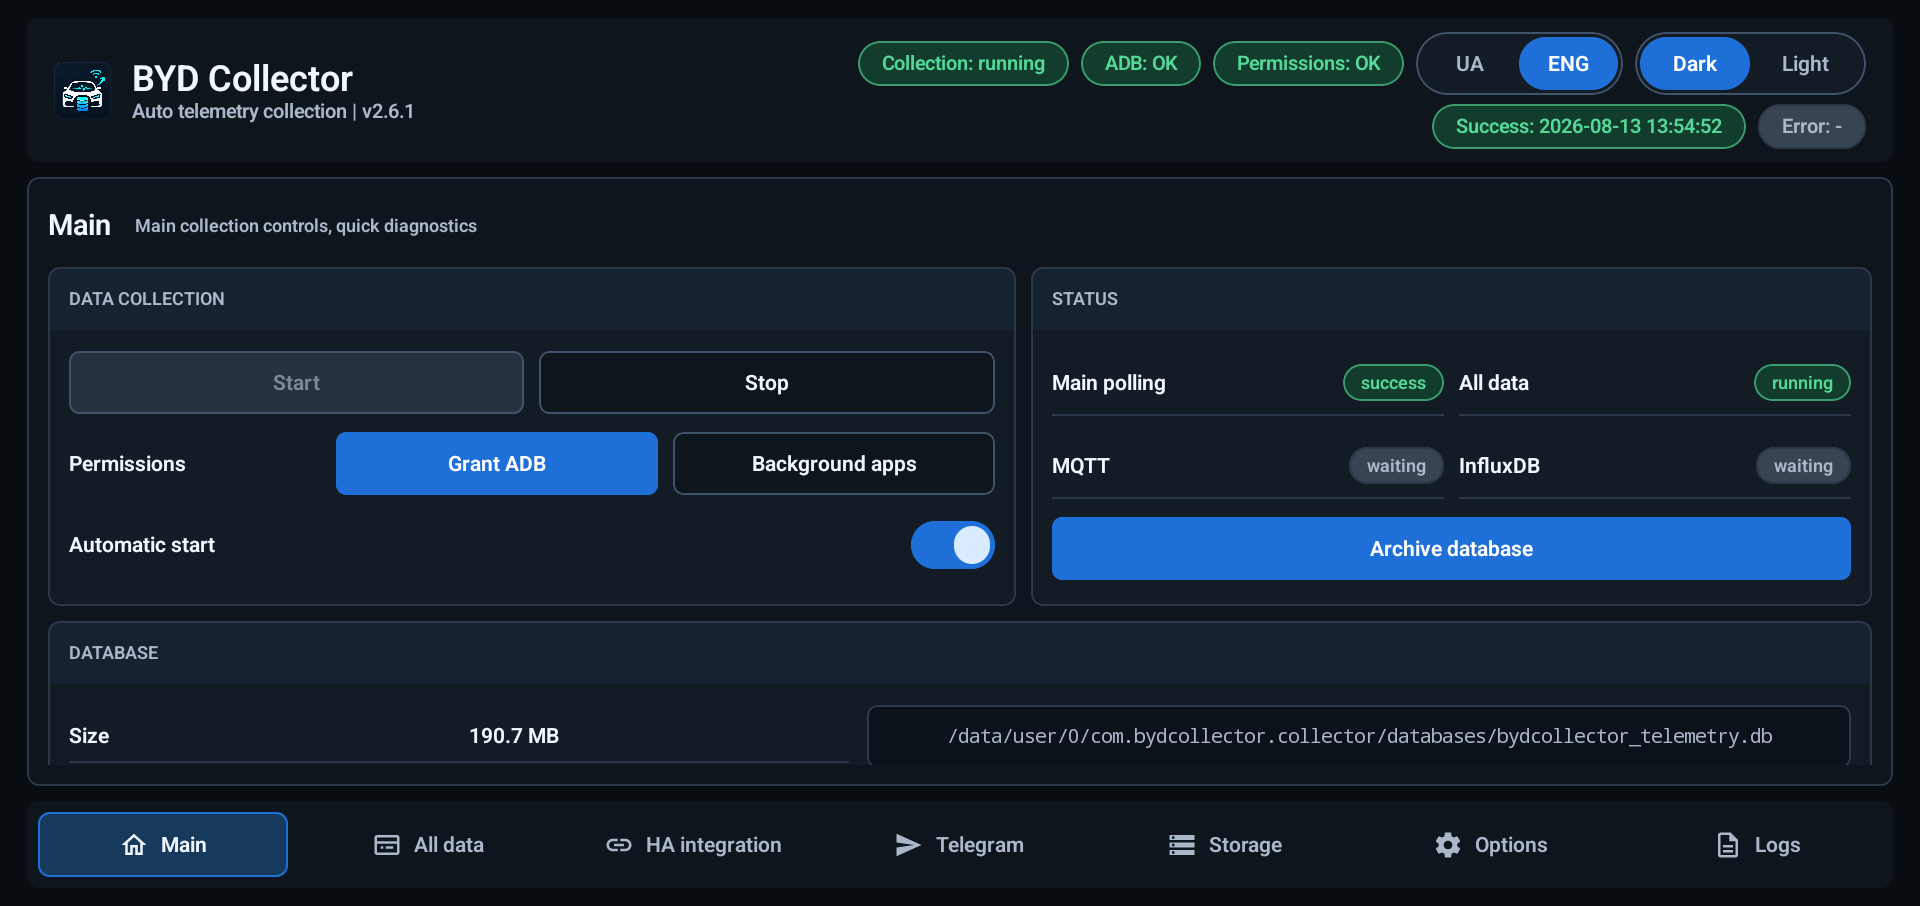
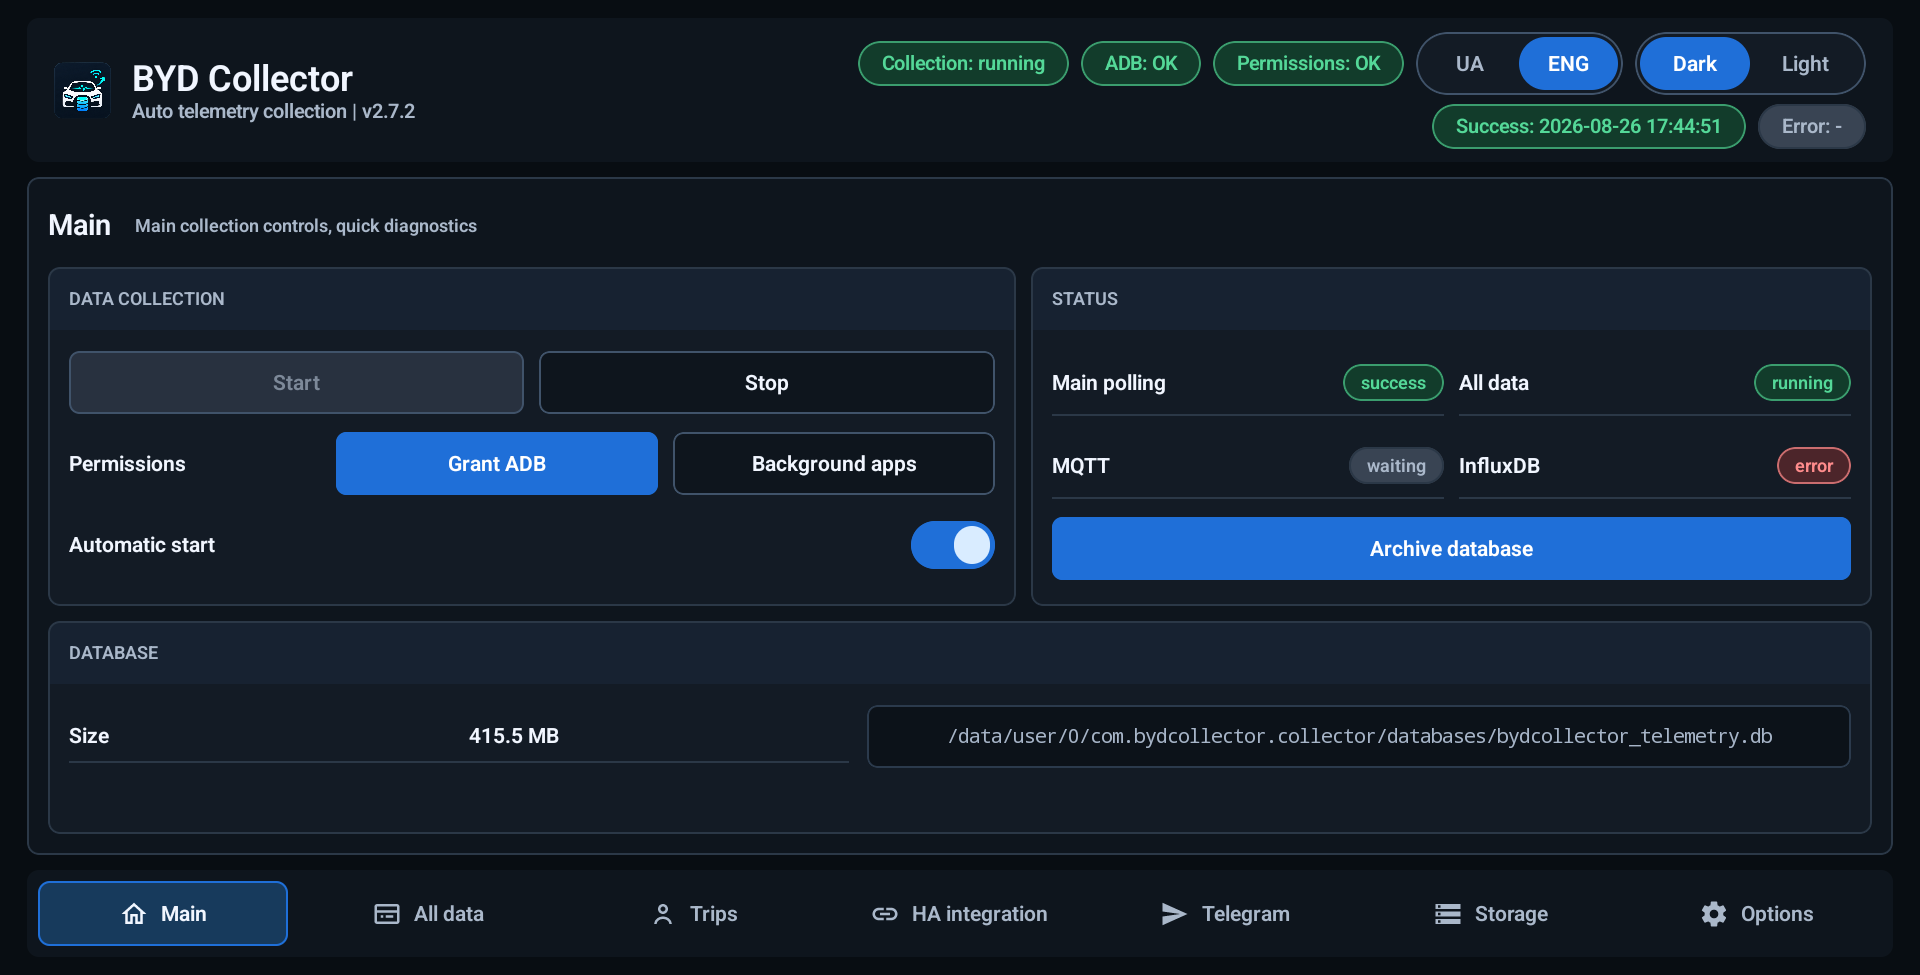
chore(docs): update README and templates

diff --git a/docs/screenshots/README.md b/docs/screenshots/README.md
@@ -1,40 +1,30 @@
-# README screenshot refresh
+# README screenshots
 
-The current screenshots show the retired `v2.6.1` layout. Replace them with
-current production `v2.7.2` captures in both languages before the next public
-release.
+The paired public READMEs use the approved screenshot set for the `v2.7.2`
+documentation. Newly captured assets show `v2.7.2`; the existing Telegram and
+Storage captures are retained because the represented tabs did not change.
+English assets live under `en/`; Ukrainian assets use the same basenames under
+`uk/`.
 
-## Capture rules
+## Published set
 
-- Use the production UI in landscape at `1920 x 906`, matching the existing
-  image dimensions.
-- Capture the same state twice: English under `en/` and Ukrainian under `uk/`.
-- Use the dark theme and keep the complete app surface in frame.
-- The header must show `v2.7.2`; the bottom bar must include Trips and must not
-  include the retired Logs tab.
-- Use emulator or synthetic data. Do not expose a real bot token, chat ID,
-  broker/Influx credentials, private hostnames or addresses, vehicle identity,
-  home location, or a real private route.
-- Prefer stable states: collection running, ADB/permissions OK, and no transient
-  loading overlay unless that state is the subject of the screenshot.
-
-## Required captures
-
-Create every basename below under both `docs/screenshots/en/` and
-`docs/screenshots/uk/`.
-
-| File | Required state |
+| File | README placement |
 | --- | --- |
-| `main.png` | Main tab at the top, with current header pills, collection controls, channel status, and useful vehicle KPI cards visible. |
-| `parameters.png` | All data tab with a non-zero catalog/cycle count and representative parameter rows; no active error. |
-| `trips.png` | Trips list with at least two non-zero synthetic trips so grouping, times, distance, energy, and consumption are visible. |
-| `trip-map.png` | One synthetic trip opened on the map with a continuous outlined route, Start/Finish markers, and the lower legend/colour controls visible. |
-| `home-assistant.png` | HA integration tab showing MQTT and InfluxDB controls/status plus the category grid; credentials blank or masked and location category off. |
-| `telegram.png` | Trip summary card showing the location action with its centered default `no` / `ні` status and the current template controls; secrets must be outside the frame or masked. |
-| `storage.png` | Storage tab with active database cards, archive limit, and share/delete archive actions visible. |
-| `options.png` | Options tab with combined Wi-Fi/cellular recovery, Bluetooth/service recovery, Start/Stop logcat, Share logs, and Clear logs visible. |
+| `main.png` | Main collection controls, channel status, and database state. |
+| `parameters.png` | All data controls, current vehicle state, and round-robin database state. |
+| `trips.png` | Grouped trip history with distance, energy, SOC, consumption, and route actions. |
+| `home-assistant.png` | MQTT and InfluxDB controls, status, and category selection. |
+| `telegram.png` | Telegram connection and event-template controls; retained because the represented tab did not change. |
+| `storage.png` | Active databases, archive limit, and archive selection; retained because the represented tab did not change. |
+| `archive.png` | Database-archive confirmation and queue warnings. |
+| `archive-done.png` | Successful database-archive result. |
+| `options.png` | Recovery, logcat, Share logs, Clear logs, update, and shutdown controls. |
 
-The six existing filenames are already referenced by the paired READMEs and can
-be replaced in place. `trips.png` and `trip-map.png` have prepared hidden slots
-in both READMEs; enable their image blocks only after both language pairs exist,
-so the public README never contains a broken image.
+System status/navigation bars are removed from every image. `main.png`,
+`parameters.png`, and `trips.png` are pixel-preserving composites of approved
+continuation captures; the remaining images are `1920 x 906` crops. A trip-map
+capture is intentionally not published to avoid exposing private route data.
+
+Future replacements must keep both language sets synchronized, use the current
+production version and dark theme, and exclude credentials, private endpoints,
+vehicle identity, home location, and other sensitive data.

diff --git a/README.md b/README.md
@@ -83,7 +83,7 @@ Route recording uses Android's GPS provider after the user grants location acces
 
 There is currently no automatic trip-route retention or trip-database archive action. The maintainer will measure the real database/WAL footprint after several days before selecting a retention policy.
 
-<!-- Screenshot slots: docs/screenshots/en/trips.png and docs/screenshots/en/trip-map.png. Capture contract: docs/screenshots/README.md. -->
+<p align="center"><img src="docs/screenshots/en/trips.png" alt="BYD Collector trip history" width="100%"></p>
 
 ## MQTT, Home Assistant, and InfluxDB
 
@@ -151,6 +151,11 @@ SQLite is the authoritative long-term store. JSON is used for export/transport, 
 Archive maintenance can temporarily stop collection and integrations. Read the confirmation dialog: it shows queued Main-owned MQTT/InfluxDB work, reports a Telegram migration warning separately when applicable, and warns when an operation cannot be stopped safely after it begins. The live Telegram sidecar itself is not at risk from Main archive replacement.
 
 <p align="center"><img src="docs/screenshots/en/storage.png" alt="BYD Collector storage and database archives" width="100%"></p>
+
+<p align="center">
+  <a href="docs/screenshots/en/archive.png"><img src="docs/screenshots/en/archive.png" alt="BYD Collector database archive confirmation" width="49%"></a>
+  <a href="docs/screenshots/en/archive-done.png"><img src="docs/screenshots/en/archive-done.png" alt="BYD Collector completed database archive" width="49%"></a>
+</p>
 
 ## Options and runtime
 
